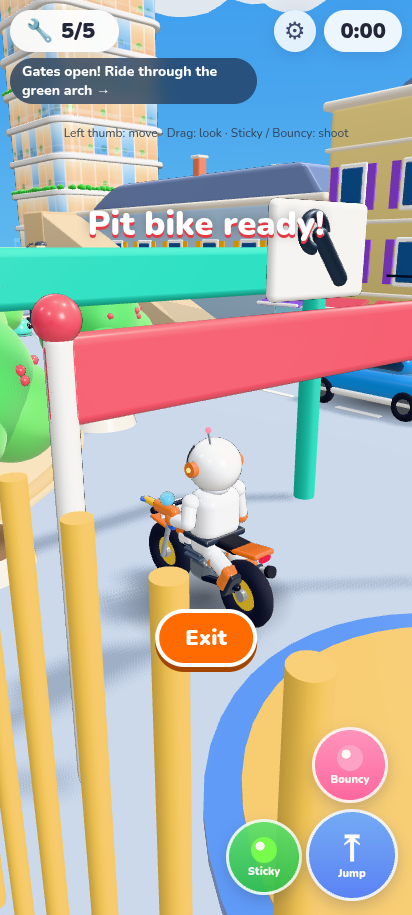
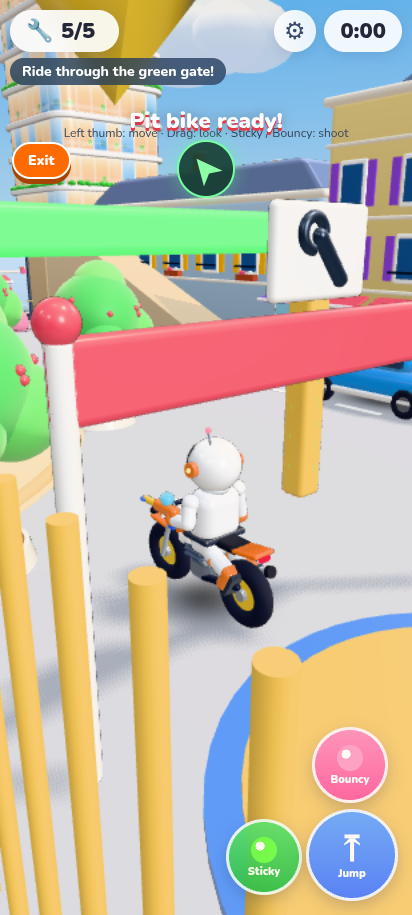
Clear stale popups between levels, fade distant water sparkle, repair round3 driver

diff --git a/src/render/materials.ts b/src/render/materials.ts
@@ -256,10 +256,12 @@ normal = normalize((viewMatrix * vec4(wn, 0.0)).xyz);
 float fres = pow(1.0 - clamp(dot(normal, normalize(vViewPosition)), 0.0, 1.0), 3.0);
 diffuseColor.rgb = mix(diffuseColor.rgb, vec3(0.62, 0.9, 0.95), clamp(fres * 0.6 + wg.x * 0.25, 0.0, 0.55));
 // lighter crests
-diffuseColor.rgb += vec3(0.035, 0.06, 0.06) * smoothstep(0.15, 0.55, wg.x + wg.y);`)
+diffuseColor.rgb += vec3(0.035, 0.06, 0.06) * smoothstep(0.15, 0.55, wg.x + wg.y) * smoothstep(80.0, 20.0, length(vViewPosition));`)
       .replace('#include <emissivemap_fragment>', `#include <emissivemap_fragment>
 float glint = waveGrad(wp * 3.7 + 11.0, uTime * 1.6).x * waveGrad(wp * 2.3 - 7.0, uTime * 1.3).y;
-totalEmissiveRadiance += vec3(1.0, 0.97, 0.88) * smoothstep(0.09, 0.13, glint) * 0.8 * ${sparkle};`);
+// fade glints with distance so far water doesn't alias into white noise
+float near = smoothstep(55.0, 12.0, length(vViewPosition));
+totalEmissiveRadiance += vec3(1.0, 0.97, 0.88) * smoothstep(0.09, 0.13, glint) * 0.8 * near * ${sparkle};`);
   };
   m.customProgramCacheKey = () => `water${scale}${sparkle}`;
   return m;

diff --git a/src/main.ts b/src/main.ts
@@ -1,4 +1,4 @@
-import { openGates, startRace, raceFinish } from './sim/race';
+import { openGates, startRace, raceFinish, raceOf } from './sim/race';
 import { TOWER } from './sim/tower';
 import * as THREE from 'three';
 import './style.css';
@@ -179,6 +179,7 @@ function startGame(look: Look, level = 1) {
   creator.show(false);
   win.show(false);
   hud.show(true);
+  hud.clearPopups();
   bubbles.clear();
   bubbles.show(true);
   document.body.classList.add('playing');
@@ -331,6 +332,8 @@ const api = {
   startRace() { if (state) { startRace(state); resumePlay(); input.camYaw = 0; } },
   raceFinish() { if (state) { raceFinish(state); api.tick(); } },
   get raceState() { return state?.race; },
+  /** current level's race course polyline (for test drivers) */
+  get raceCourse() { return state ? raceOf(state)?.course ?? null : null; },
   showCreator,
   /** hero builder: pick part `i` for slot 0..3 (head, body, legs, gun) */
   pickPart(slot: number, i: number) {

diff --git a/src/ui/hud.ts b/src/ui/hud.ts
@@ -131,6 +131,13 @@ export class Hud {
     if (v) this.lastShown = '';
   }
 
+  /** Drop popups left over from a previous game. */
+  clearPopups() {
+    this.toastTimer = this.trickTimer = 0;
+    this.toastEl.classList.remove('on');
+    this.trickEl.classList.remove('on');
+  }
+
   update(state: GameState, playerId: number, dt: number, camYaw: number) {
     const p = state.players.find((x) => x.id === playerId);
     if (!p) return;

diff --git a/PROGRESS.md b/PROGRESS.md
@@ -97,3 +97,4 @@ Tests:
 - R6.2: Level 2 coastal race (`COURSE2`, 518 m, 73 s): coastal causeway with sea/cliff pines, pier boardwalk with an optional left-lane gap over water, loop round a lighthouse island; smaller 1.8 m ramps. Scooter VehicleDef is lighter/nimbler (accel 16, turn 3.4, max 14, hop 5.2, ramp launch ×0.75). Race road renderer is parameterized by RaceDef + theme (gate, cues, posts, chunk centers). Two seeded scooter bots finish in ~50 s with small jumps (<1.8 m). Race views 174–277 calls. Build, sim, sweep pass.
 - R6.3: Level 2 flow and UI: kick-scooter model (deck you stand on, T-bar, small wheels; rider stands), localized harbor hints/part names/toasts/race hint in EN/RU/PL/LT/DE, 🛴 ride button, compass to the harbor gate, level-complete card with animated CSS drone teaser ('Level 3: Drone'), Race again replays level 2. Harbor statics merged into one shared kit + one furniture batch: area 334–356 calls / ~0.5 M tris (level 1: 387 / 585k), race 158–235. New tests/round9.e2e.mjs (in npm run test:e2e) plays level 1 → Next level → parts → garage → harbor gate → real steering-bot drive to finish → teaser, asserts budgets ≤ level 1, saves shots/r9-l2-*.png. Sweep covers level-2 reachability, road flood fill, 4 scooter bots, course drops and level-complete layouts. Build, sim, sweep pass.
 - R6.4 (item 4, graphics polish, both levels): shared `waterMaterial` (PBR + world-space procedural wave normals, fresnel tint, crests, sun glints; one shared clock) on the harbor sea, race sea and level-1 fountain basin; sky dome with horizon haze → mid → zenith gradient, sun glow and a sun disc merged into the cloud mesh, puffier clouds lit from above (blue-grey bellies, warm sun rim), per-level palette and matching fog; Gaussian-falloff contact-shadow blobs; cooler hemisphere fill vs warmer sun; warmer level-1 street; camera blockers for tree crowns; level-1 window flower boxes; harbor fishing crates/barrels/rope/net (with solids). Added `__game.setSeed()` so draw-call probes are reproducible; with seed 4242 the level-1 spawn view is 383→379 calls / 585k→585k tris and harbor views stay within ±2k tris. Build, sim, sweep pass.
+- R6.5: Fixes from screenshot review: level-1 toasts no longer carry into level 2 (`hud.clearPopups()` on start), sea crests/glints fade with distance (no far-water aliasing), race shot moved off the ramp. Repaired tests/round3.e2e.mjs, which had failed since the R4 curved course (straight-line driver and 60 s timer): it now uses a look-ahead steering driver via the new `__game.raceCourse` hook and ticks past the real remaining time; it passes, as does tests/round4.e2e.mjs.
